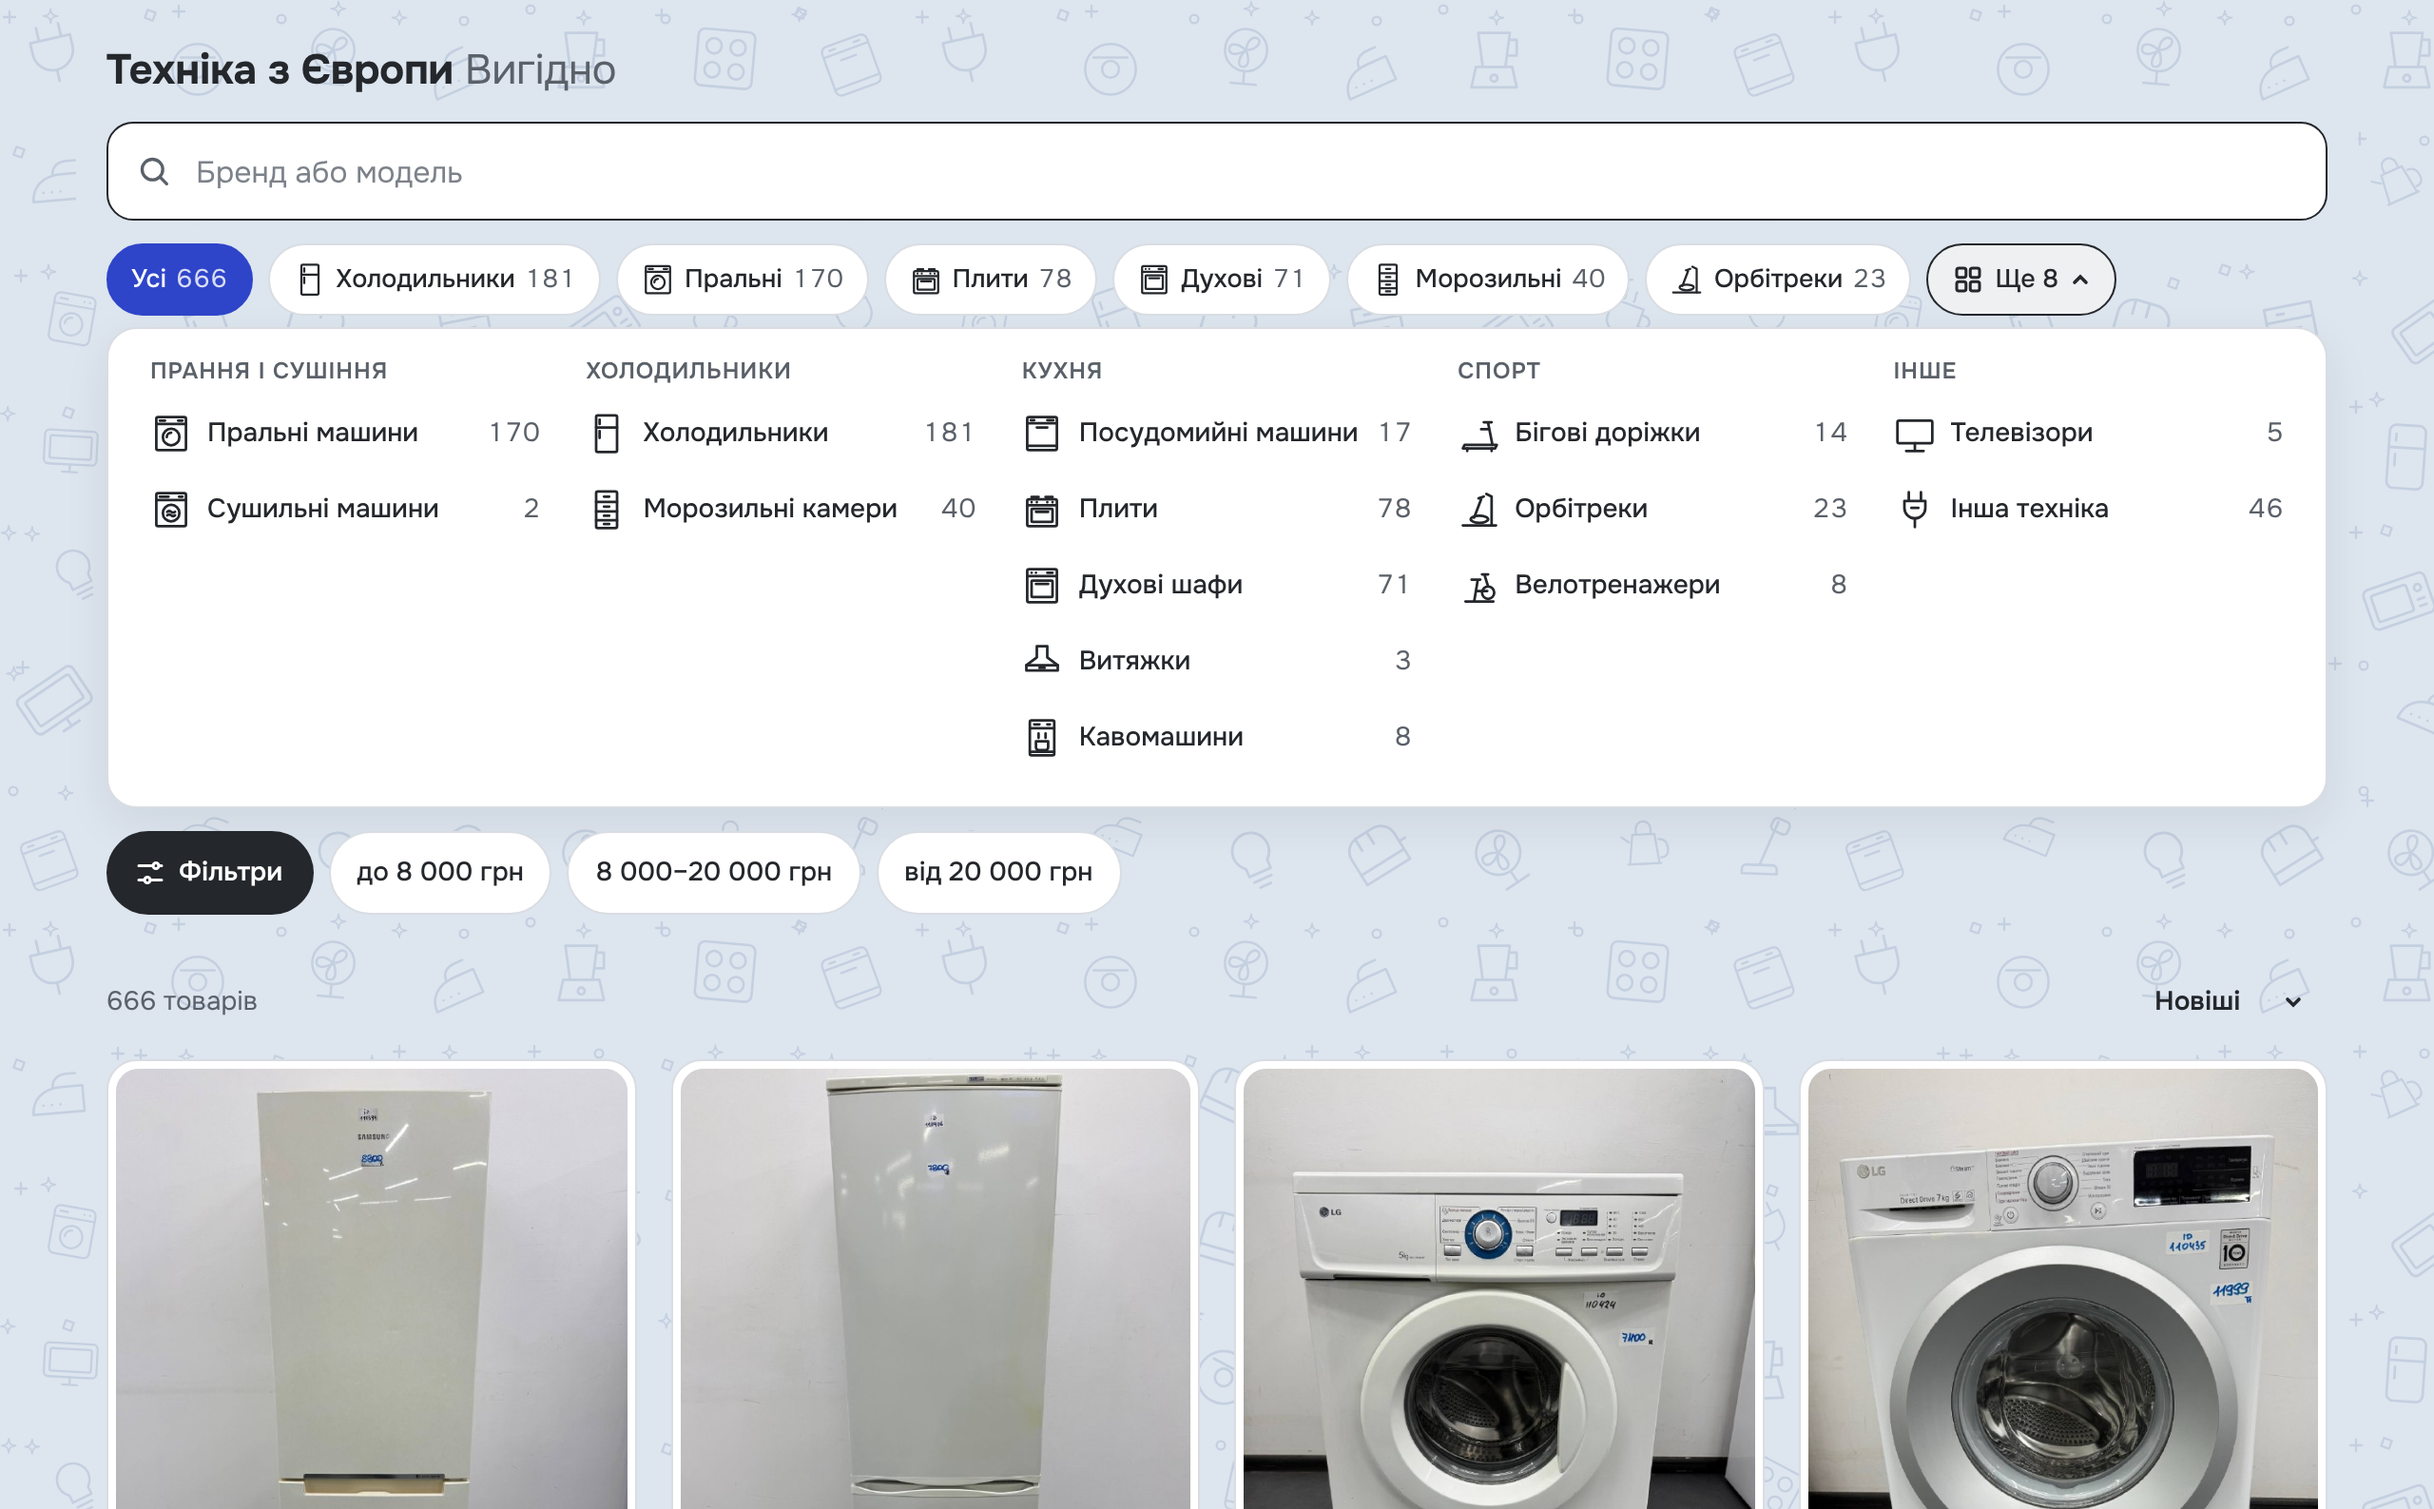
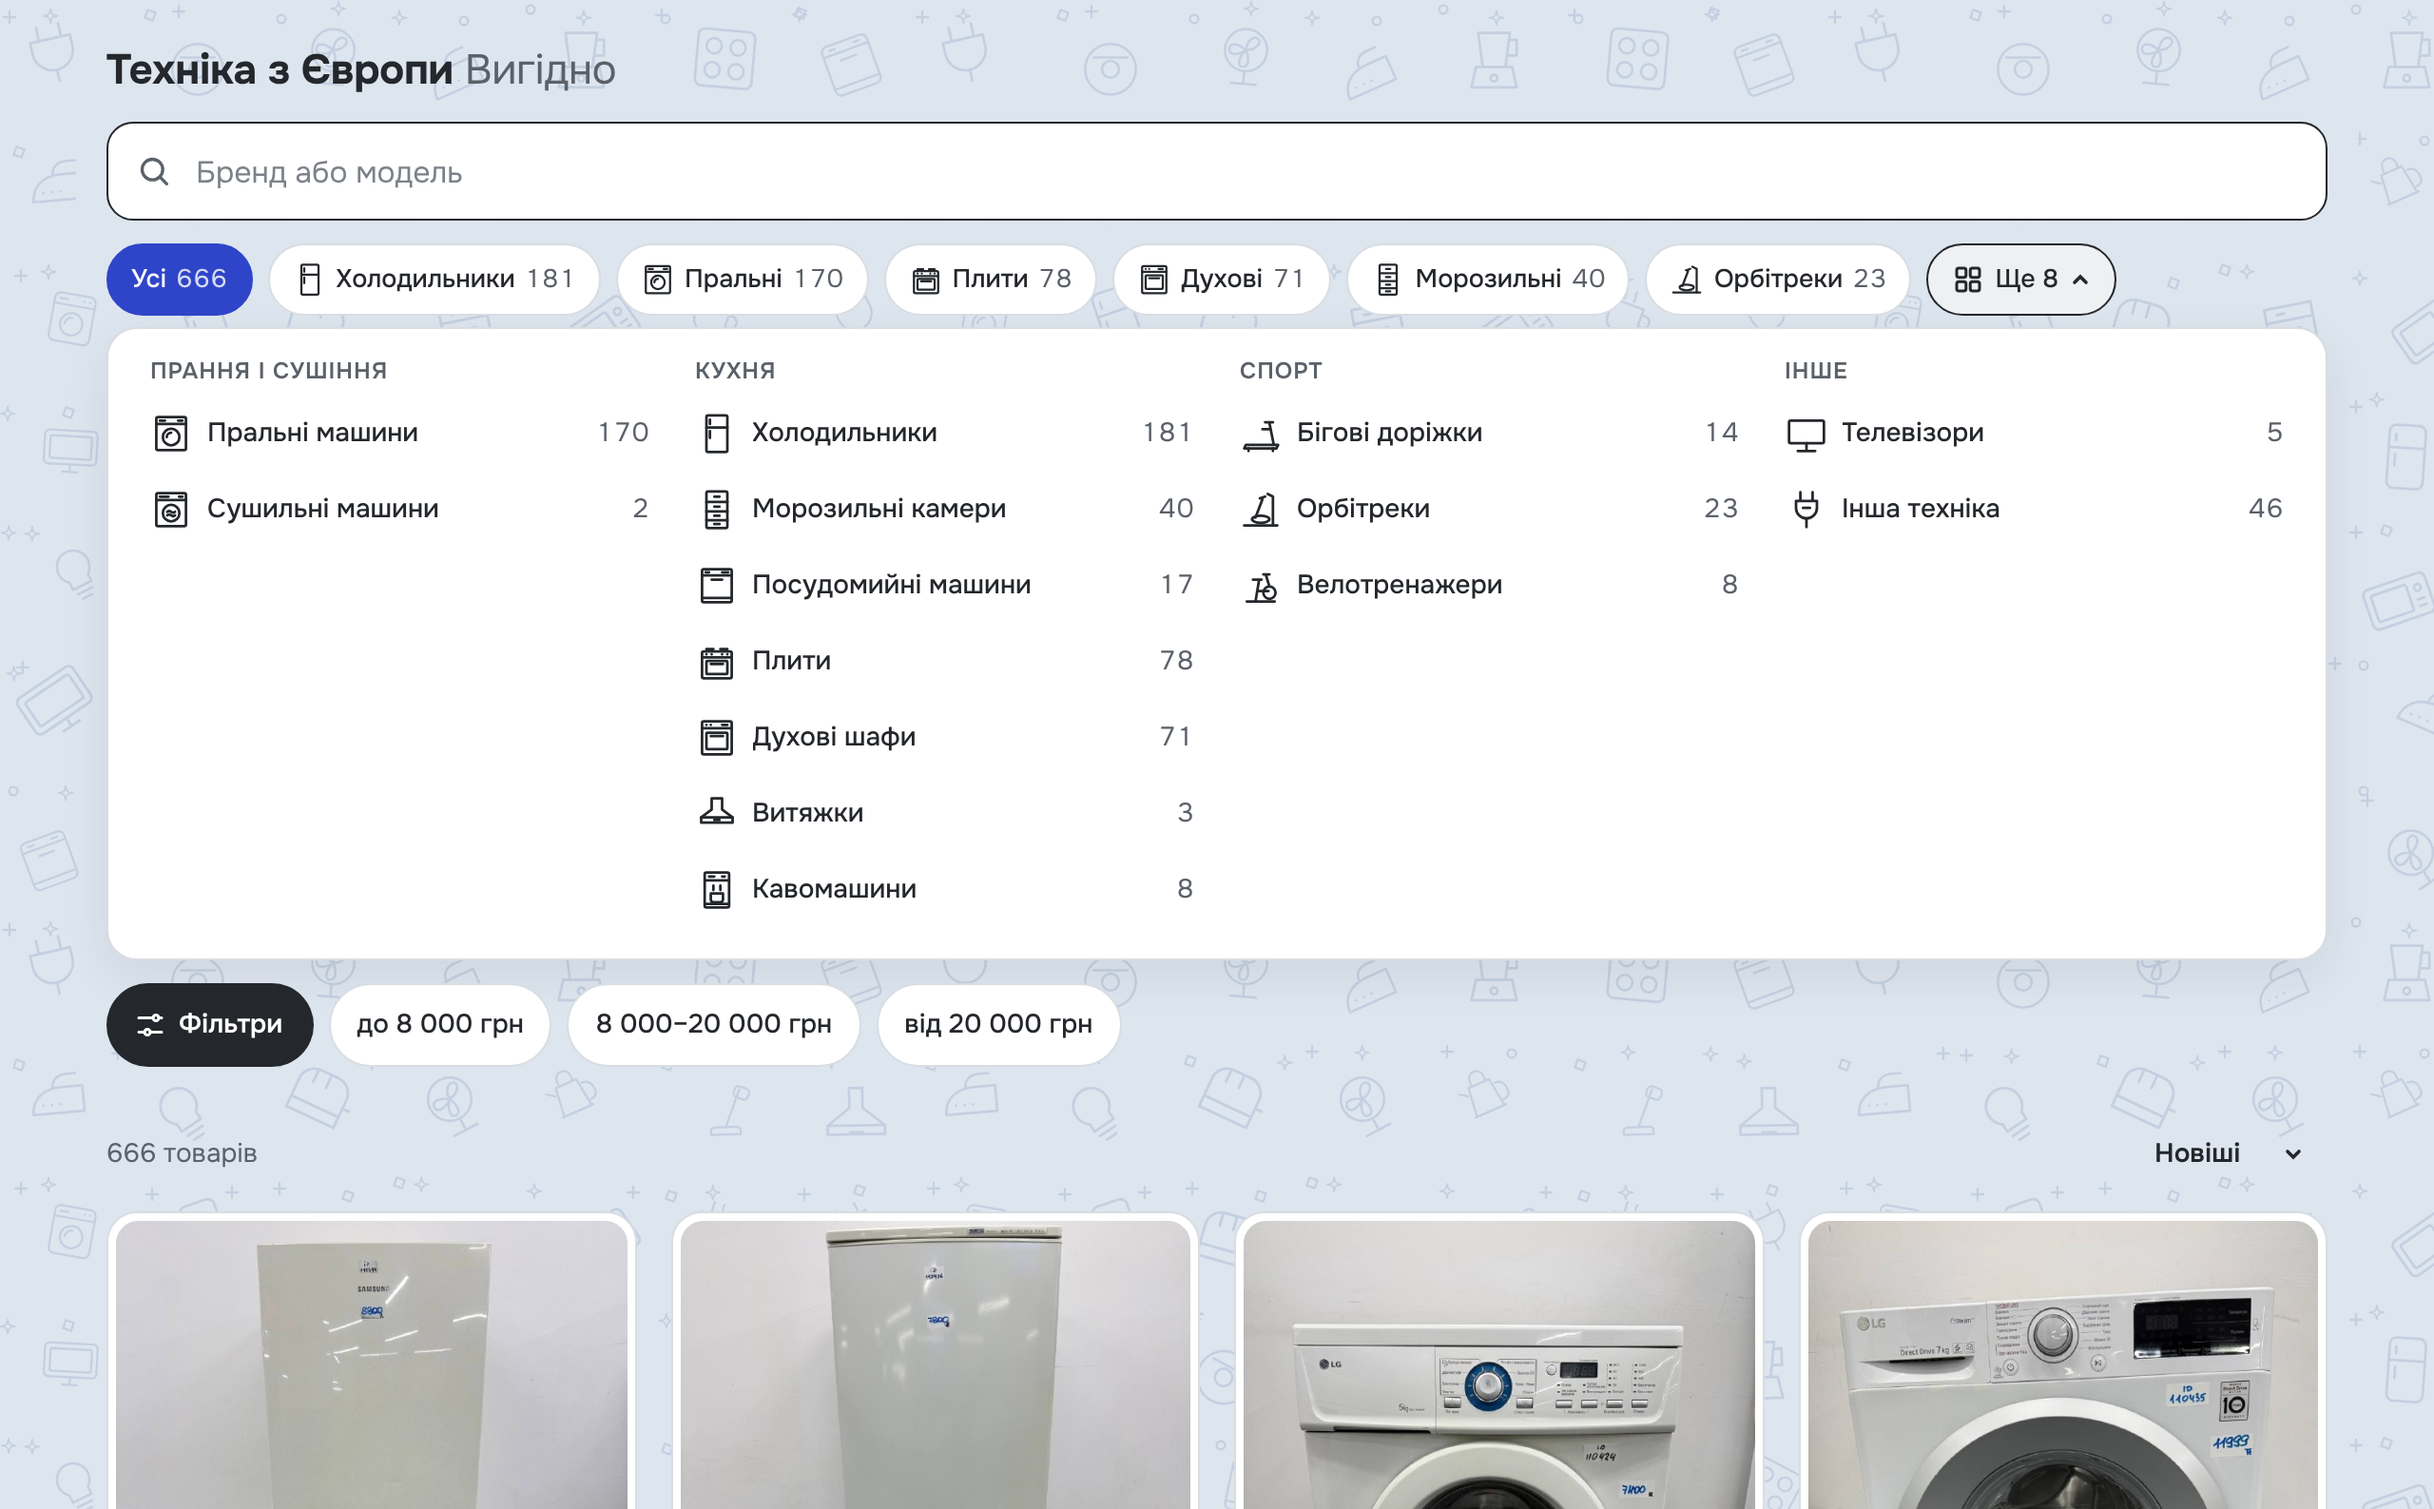
Категорії: холодильники й морозильні в групі «Кухня»
Claude-Session: https://claude.ai/code/session_01KCjdV9NFkAKRJEzurD2C9L

diff --git a/index.html b/index.html
@@ -90,7 +90,7 @@ mark{background:transparent;color:inherit;box-shadow:inset 0 -.42em #2f45c933;bo
 .citem.zero{opacity:.45}
 .citem span.nm{white-space:nowrap;overflow:hidden;text-overflow:ellipsis}
 @media(max-width:639px){.catmenu{display:block;padding:12px 12px 2px}.cgroup{display:flex;flex-wrap:wrap;gap:6px}.cgroup h3{width:100%;padding:0 2px}.citem{width:auto;min-height:38px;gap:6px;padding:0 12px;border:1px solid var(--line);border-radius:999px;font-size:14px}.citem svg{width:18px;height:18px}.citem .cnt{margin-left:0}.citem[aria-pressed=true]{border-color:var(--marker)}}
-@media(min-width:960px){.catmenu{grid-template-columns:repeat(5,minmax(0,1fr))}.cats{flex-wrap:nowrap;overflow:hidden}.more{order:0}.more .m-m{display:none}.more .m-d{display:inline}}
+@media(min-width:960px){.catmenu{grid-template-columns:repeat(4,minmax(0,1fr))}.cats{flex-wrap:nowrap;overflow:hidden}.more{order:0}.more .m-m{display:none}.more .m-d{display:inline}}
 .grid{display:grid;grid-template-columns:repeat(2,minmax(0,1fr));gap:10px;margin:0;padding:0 var(--gutter);list-style:none}
 .grid>li{display:flex;min-width:0}.grid>li>*{flex:1}
 @media(min-width:640px){.grid{grid-template-columns:repeat(3,minmax(0,1fr));gap:14px}}
@@ -303,8 +303,7 @@ const CAT = Object.fromEntries(CATS.map(c => [c.id, c]));
 // Групи для розгорнутого списку категорій.
 const GROUPS = [
   ['Прання і сушіння', ['washers', 'dryers']],
-  ['Холодильники', ['fridges', 'freezers']],
-  ['Кухня', ['dishwashers', 'stoves', 'ovens', 'hobs', 'hoods', 'micro', 'coffee']],
+  ['Кухня', ['fridges', 'freezers', 'dishwashers', 'stoves', 'ovens', 'hobs', 'hoods', 'micro', 'coffee']],
   ['Спорт', ['treadmills', 'orbitreks', 'bikes']],
   ['Інше', ['tvs', 'other']],
 ];
